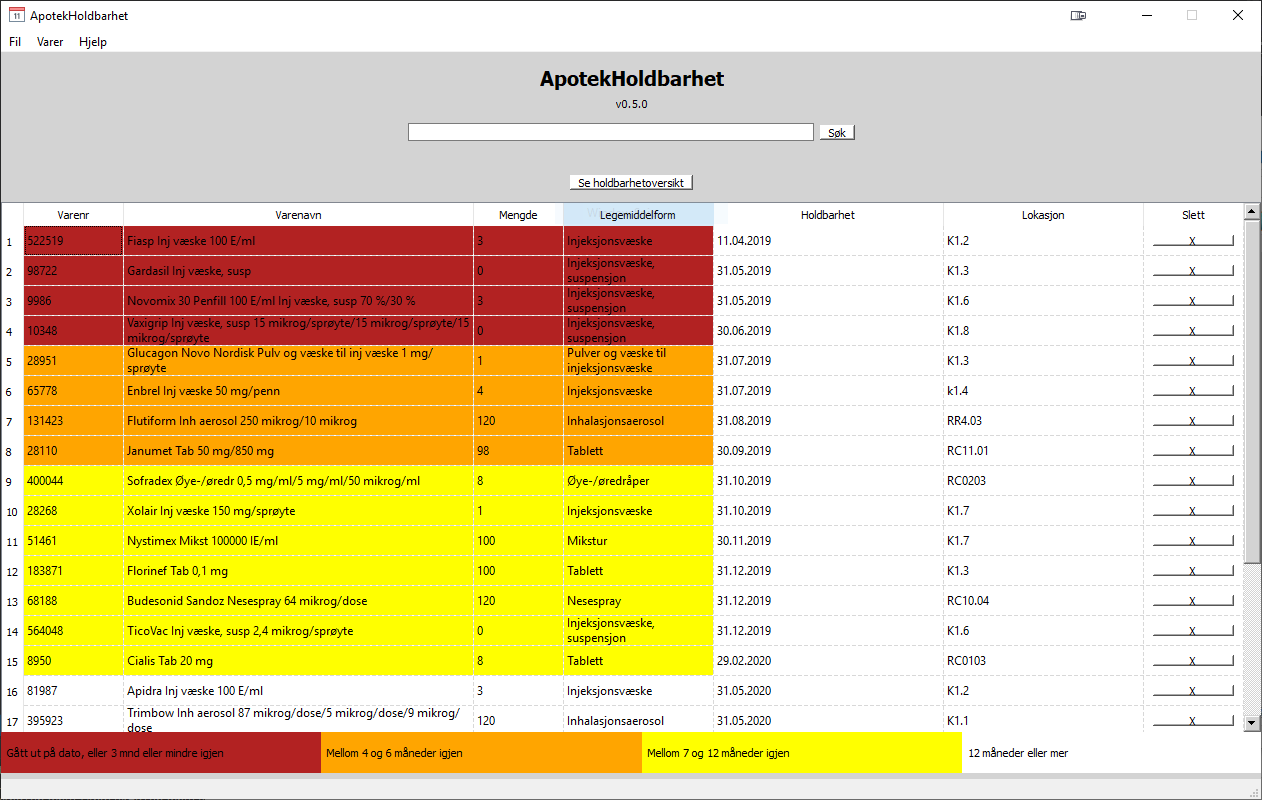
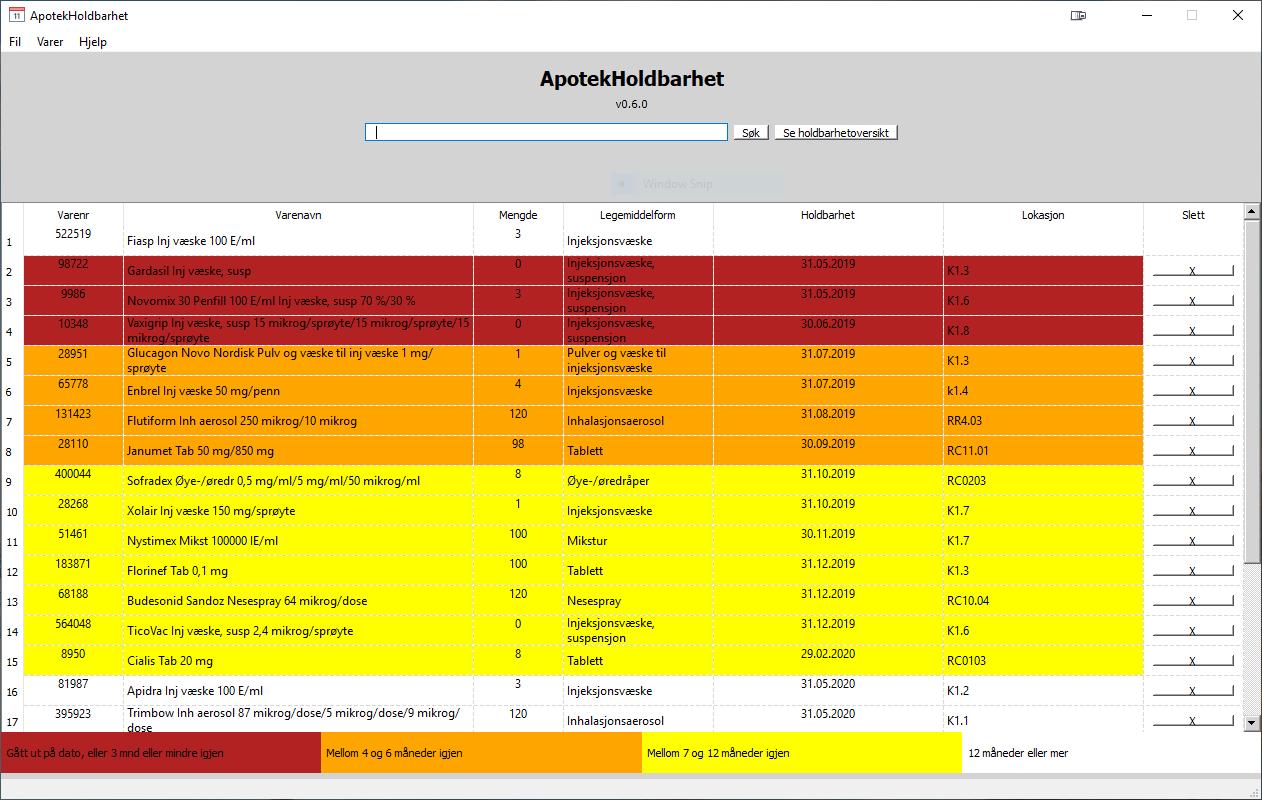
v060

diff --git a/README.md b/README.md
@@ -9,7 +9,7 @@ Det har GPL-3 lisens og er til fri bruk i både privat og kommersielt. Programme
 * Microsoft Visual C++ 2015 Redistributable
 
 ## Last ned
-[Last ned siste versjon av ApotekHoldbarhet](https://github.com/stupedama/ApotekHoldbarhet/releases/download/v050/ApotekHoldbarhetv050.zip)
+[Last ned siste versjon av ApotekHoldbarhet](https://github.com/stupedama/ApotekHoldbarhet/releases/download/v060/ApotekHoldbarhetv060.zip)
 
 ## Installering
 Pakker ut programmet til ønsket lokasjon på datamaskinen. Kjør ApotekHoldbarhet.exe.
